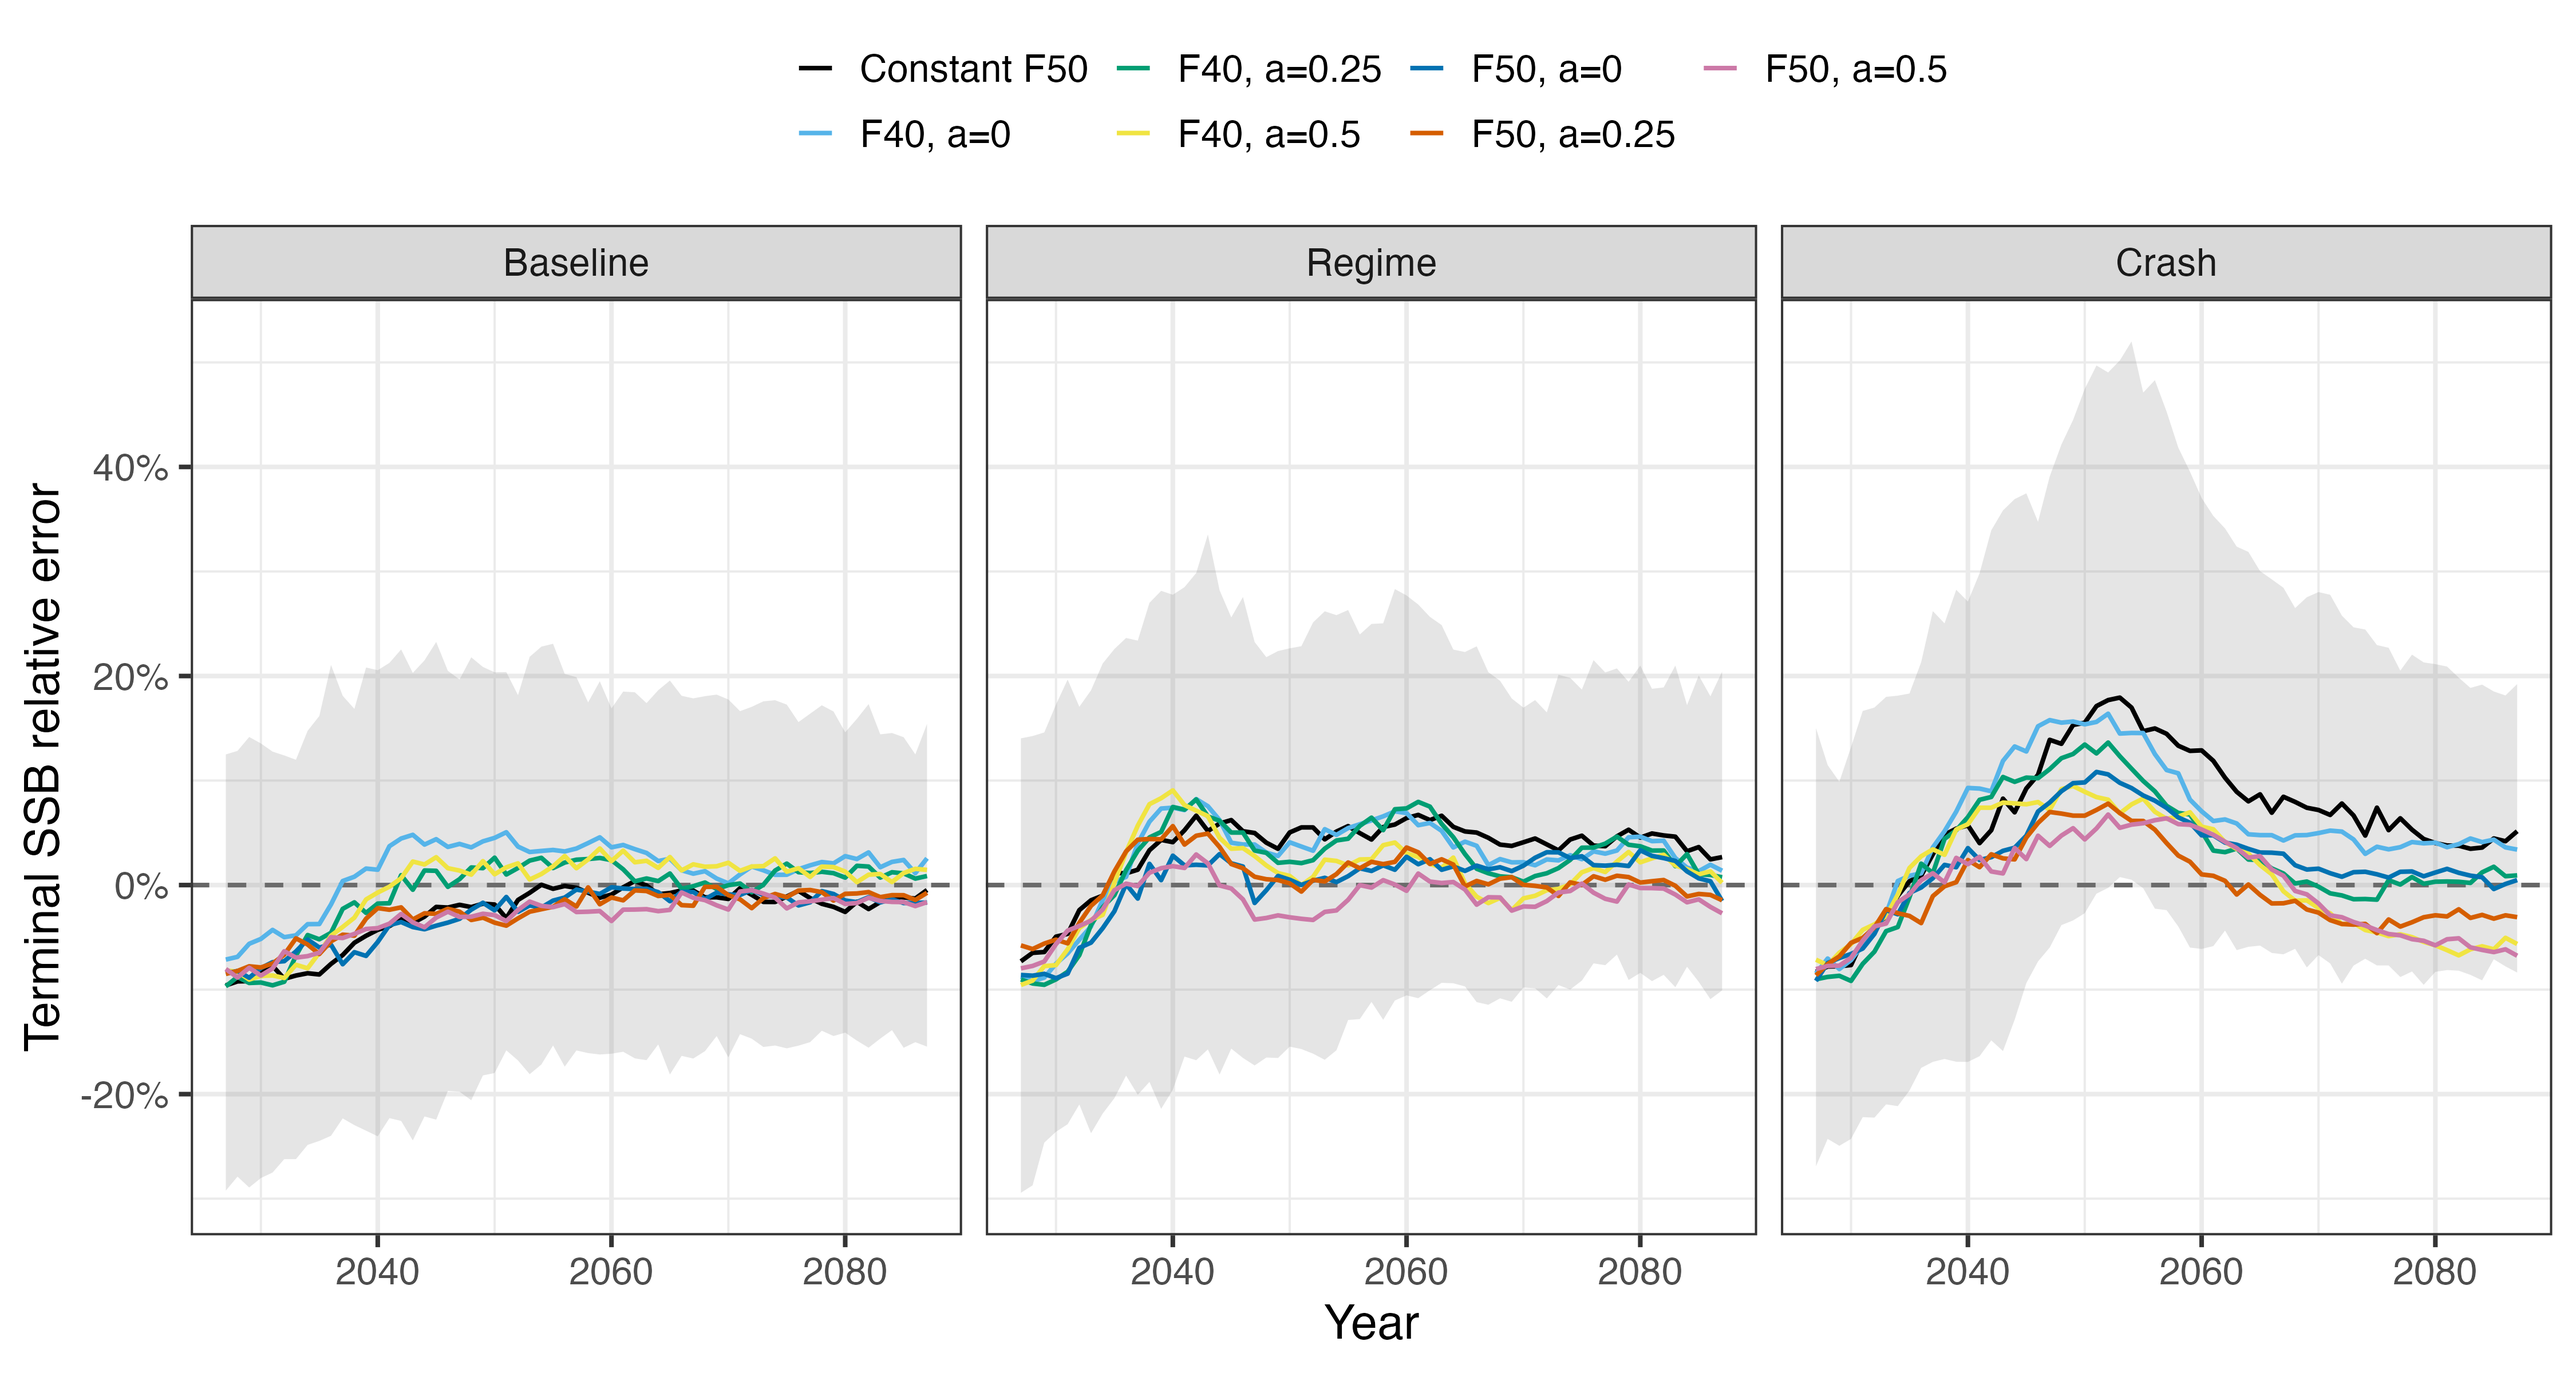
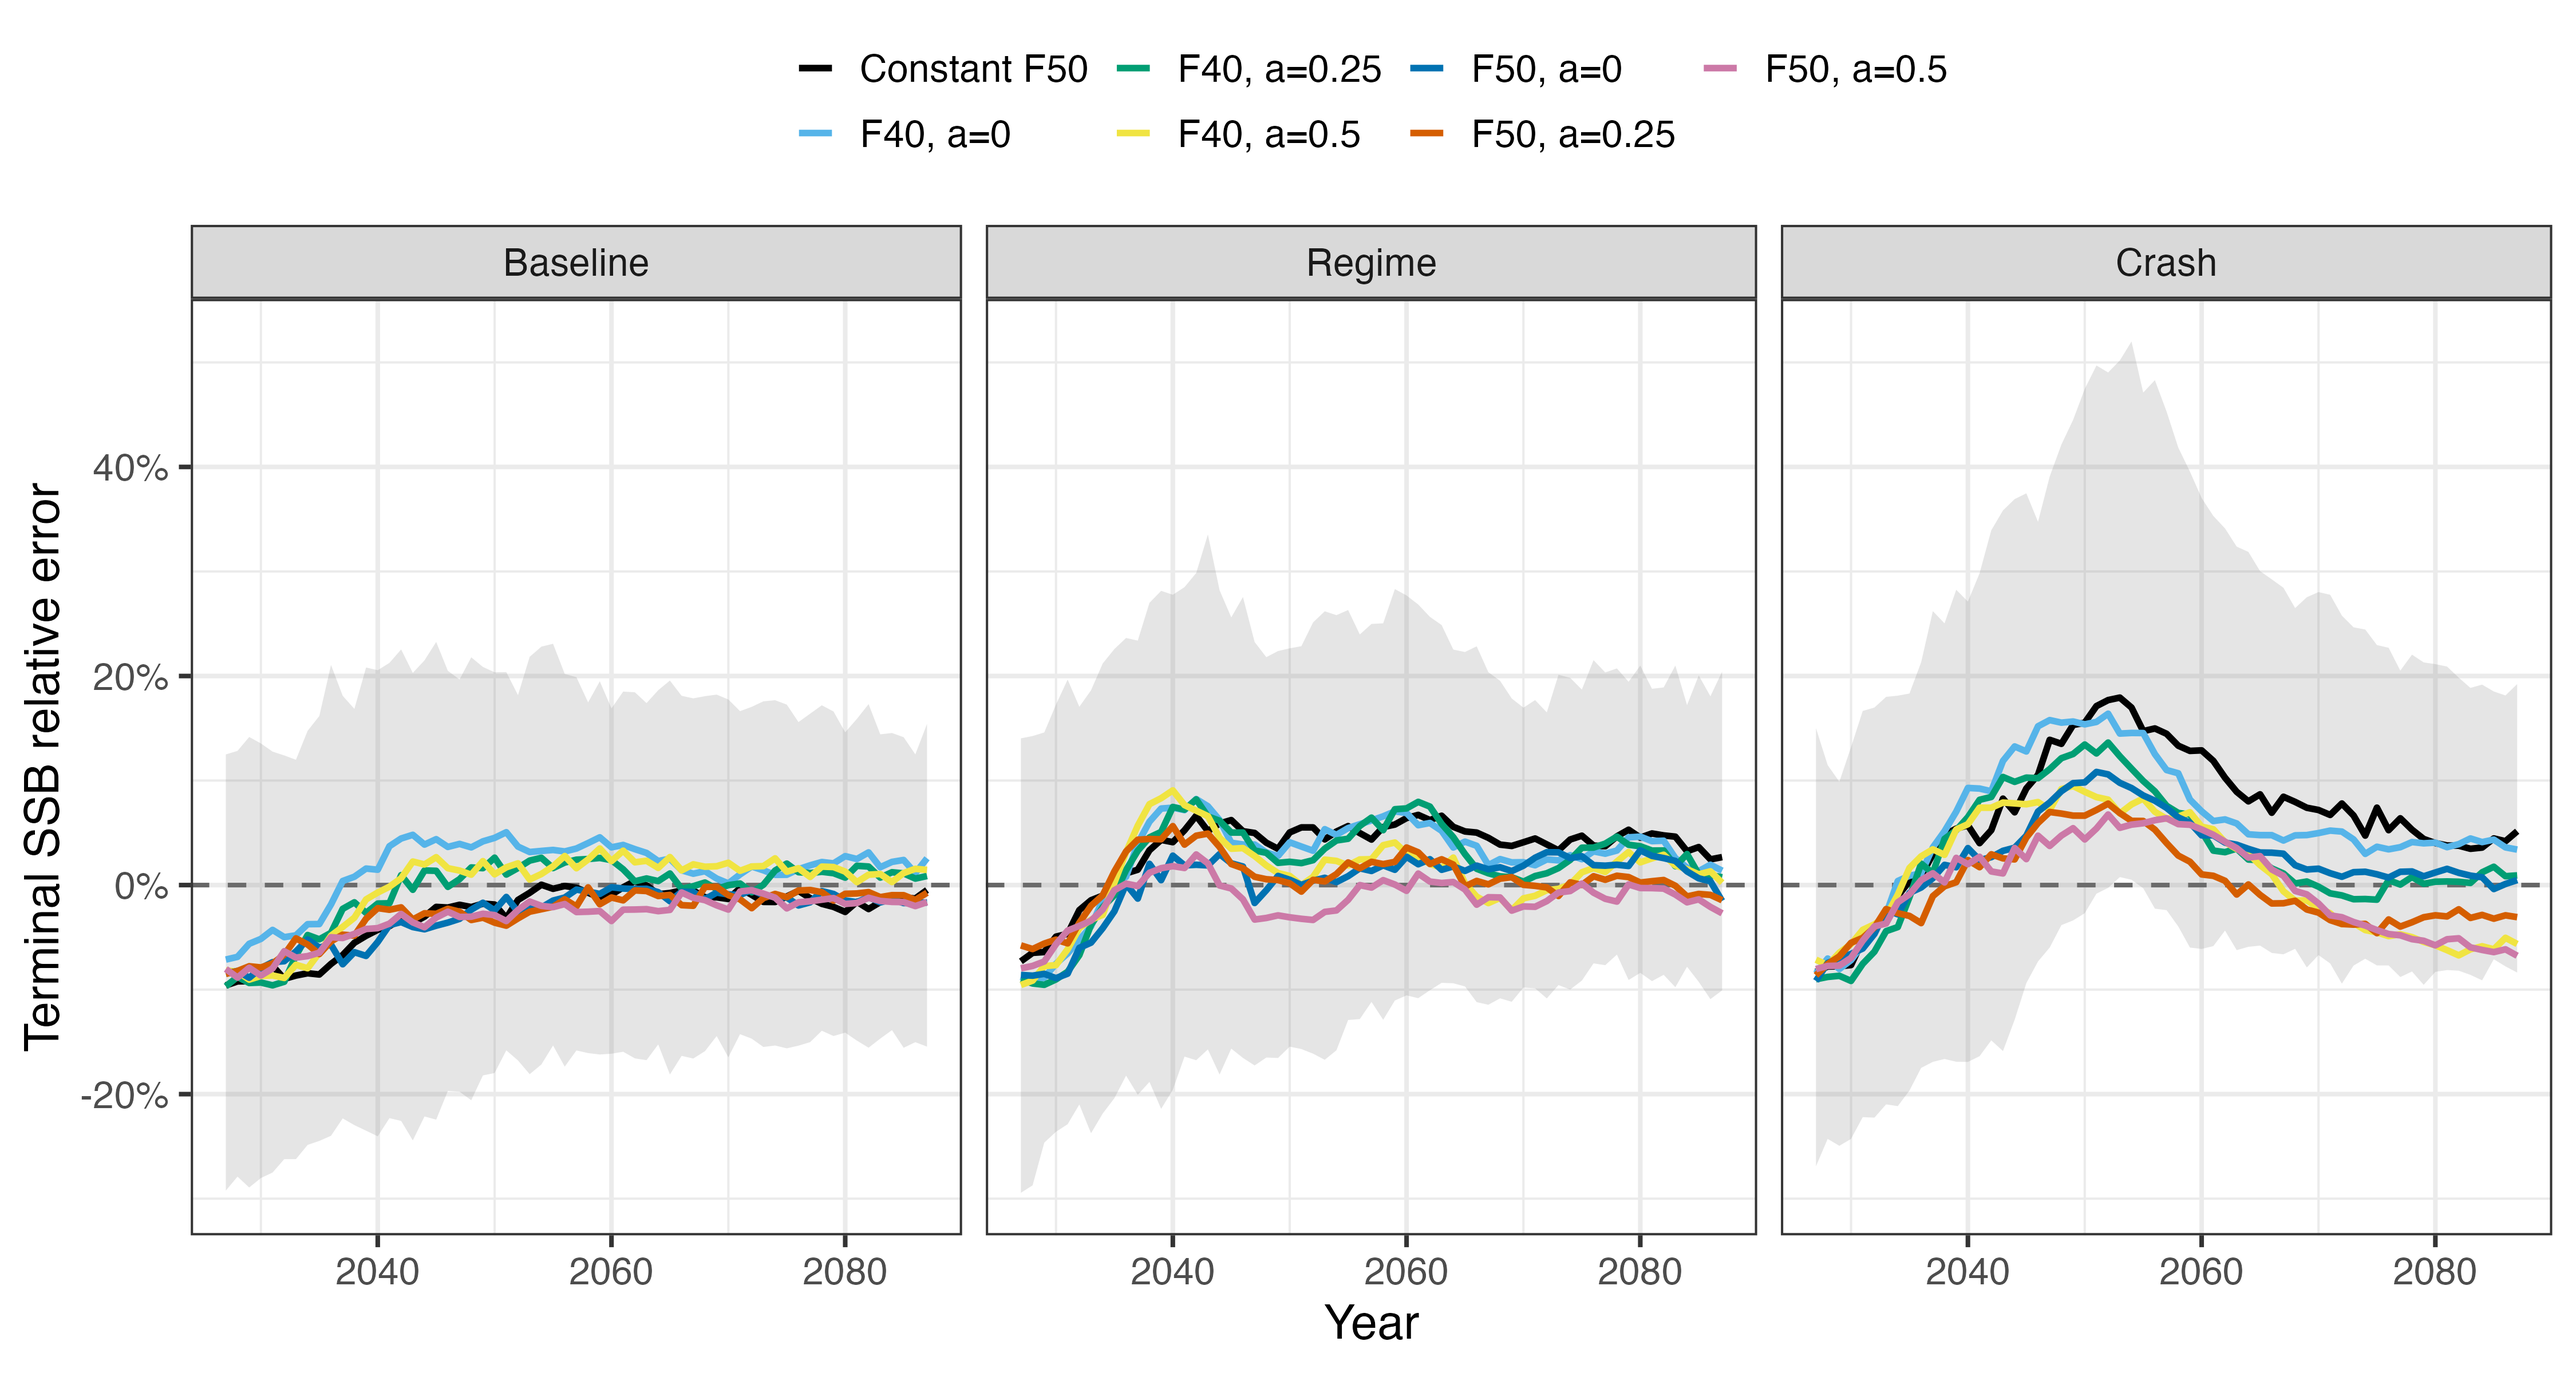
update stuff

diff --git a/README.md b/README.md
@@ -19,3 +19,82 @@ devtools::install_github("chengmatt/SPoRC@dev-popn-seasons")
 2. **Run closed-loop feedback** with annual assessment fitting via the EM
 3. **Derive reference points** and project catch advice each assessment year
 4. **Evaluate performance** of candidate biomass reference points across simulations
+
+## General Simulation design
+
+Three operating models, each 150 replicates x 111 years, with `feedback_start_yr = 51`.
+Years 1-50 are the conditioning period (1977-2026, a single deterministic trajectory
+shared by every replicate); years 51-111 are the projection (2027-2087).
+
+| OM | File | Recruitment |
+|---|---|---|
+| Baseline | `outputs/base_mse_om.RDS` | mean recruitment |
+| Regime | `outputs/bh_regime_mse_om.RDS` | Beverton-Holt with regime shifts |
+| Crash | `outputs/bh_crash_mse_om.RDS` | Beverton-Holt with a recruitment crash |
+
+Each OM was run twice, under two information assumptions:
+
+| Mode | Script | HCR grid | Result files |
+|---|---|---|---|
+| **Perfect information** (no assessment; HCR sees true stock state) | `R/run_mse_loop_noasmt.r` | full: SPR 0.30-0.70 x alpha 0-0.50 x 3 stability options + constant F50 = 298 | `outputs/*_results_noasmt.RDS` (~7 GB each) |
+| **With assessment** (EM fit every year; HCR sees estimates) | `R/run_mse_loop_asmt.R` | reduced: SPR {0.40, 0.50} x alpha {0, 0.25, 0.50}, asymmetric only + constant F50 = 7 | `outputs/*_results_asmt.RDS` (~200 MB each) |
+
+Both run sets share operating models, seeds and recruitment deviations, so replicate *j*
+is the same underlying future in both. Conditioning-period SSB is bit-identical between
+them, which is what makes the comparison attributable to assessment error alone.
+
+**The two grids only overlap on 7 rules** (constant F50, and F40/F50 x alpha {0, 0.25, 0.5},
+all asymmetric). Every assessment-vs-no-assessment comparison is restricted to those.
+The SPR x alpha heatmaps exist for the no-assessment runs only -- the assessment grid is
+too coarse for them.
+
+## Scripts
+
+Run the following scripts in this order:
+
+| Script | Purpose |
+|---|---|
+| `R/condition_om.R` | Condition the OM on historical data, write the `*_mse_om.RDS` files |
+| `R/run_mse_loop_noasmt.r` | Closed loop with perfect information, full HCR grid |
+| `R/run_mse_loop_asmt.R` | Closed loop with an EM fit each year, reduced HCR grid |
+| `R/extract_mse_summaries.R` | Read all six result files once (~2 min), write `outputs/mse_summaries.RDS` (~35 MB) |
+| `R/functions/mse_viz_utils.R` | Shared metric definitions, year mapping, palettes, plotting helpers |
+| `R/visualize_mse_results_noasmt.R` | No-assessment figures, including the SPR x alpha heatmaps (reads the raw 7 GB files directly) |
+| `R/visualize_mse_results_asmt.R` | Assessment-run figures + EM diagnostics -> `figs/asmt_*.png` |
+| `R/compare_asmt_noasmt.R` | Assessment vs perfect information -> `figs/cmp_*.png`, `outputs/asmt_vs_noasmt_performance.csv` |
+| `R/visualize_hcr_shapes.R` | Illustrative HCR shapes |
+| `R/visualize_mse_params_conditoning.R` | OM conditioning fits and demographics |
+| `R/southeast_sabie_prices.R` | Price model used for economic metrics |
+
+Re-run `R/extract_mse_summaries.R` whenever the MSE runs change.
+
+## Figures
+
+`figs/` prefixes:
+
+- **no prefix** -- no-assessment runs (`grid_*`, `hcr_comparison_*`, `base_hcr_*`, `om_*`, `hcr_shape_*`)
+- **`asmt_`** -- assessment runs
+- **`cmp_`** -- assessment vs perfect information
+
+Assessment-run figures (`asmt_*`):
+
+| Figure | Shows |
+|---|---|
+| `recruitment_timeseries` | Age-2 recruitment by OM |
+| `base_hcr_{ssb,cat,f,status}_timeseries` | Reference rule (constant F50), median + 90% interval, terminal-year density |
+| `hcr_comparison_{ssb,cat,f,status}_timeseries[_zoom]` | All 7 rules overlaid |
+| `em_ssb_relative_error` | Relative error of the terminal SSB estimate against the OM -- the bias the rule acts on |
+| `em_perceived_vs_true_status` | SSB/Bx as the rule saw it vs as it truly was |
+| `em_convergence` | Positive-definite Hessian rate and worst gradient by year |
+| `retro_fan` | Retrospective fan (squid plot) for one replicate against OM truth, one panel per rule x OM |
+
+Comparison figures (`cmp_*`):
+
+| Figure | Shows |
+|---|---|
+| `base_hcr_{ssb,cat,f,status}_timeseries` | Reference rule, both modes overlaid with intervals |
+| `all_hcr_{ssb,cat,f,status}_timeseries` | Same, one row per rule (7 x 3 panels) |
+| `performance_metrics` | Median SSB, median catch, catch AAV, P(SSB < 10% historical max), P(closure), both modes |
+| `performance_change` | The same metrics as change attributable to assessment error, coloured better/worse |
+| `tradeoff` | % change in catch vs % change in AAV, shared axes, 50% simulation intervals from paired replicates |
+| `tradeoff_medians` | Same axes, medians only, labelled, free scales |
